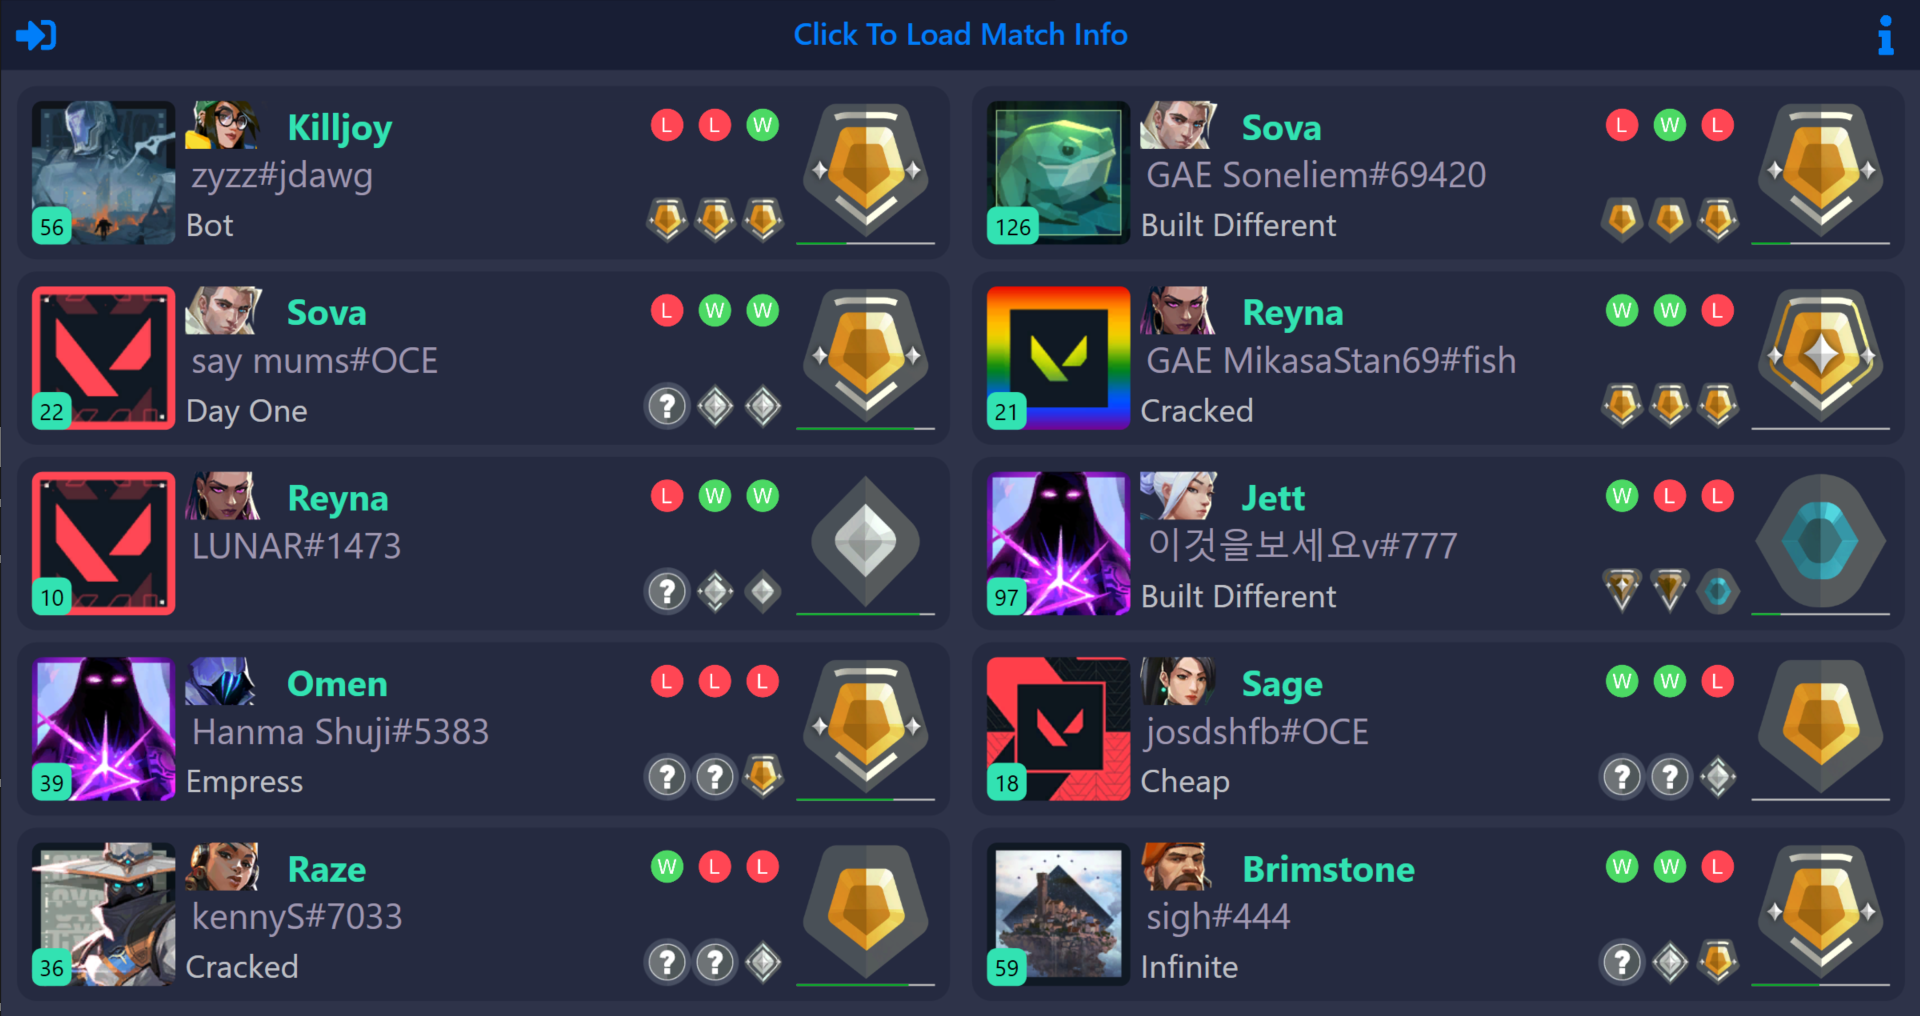
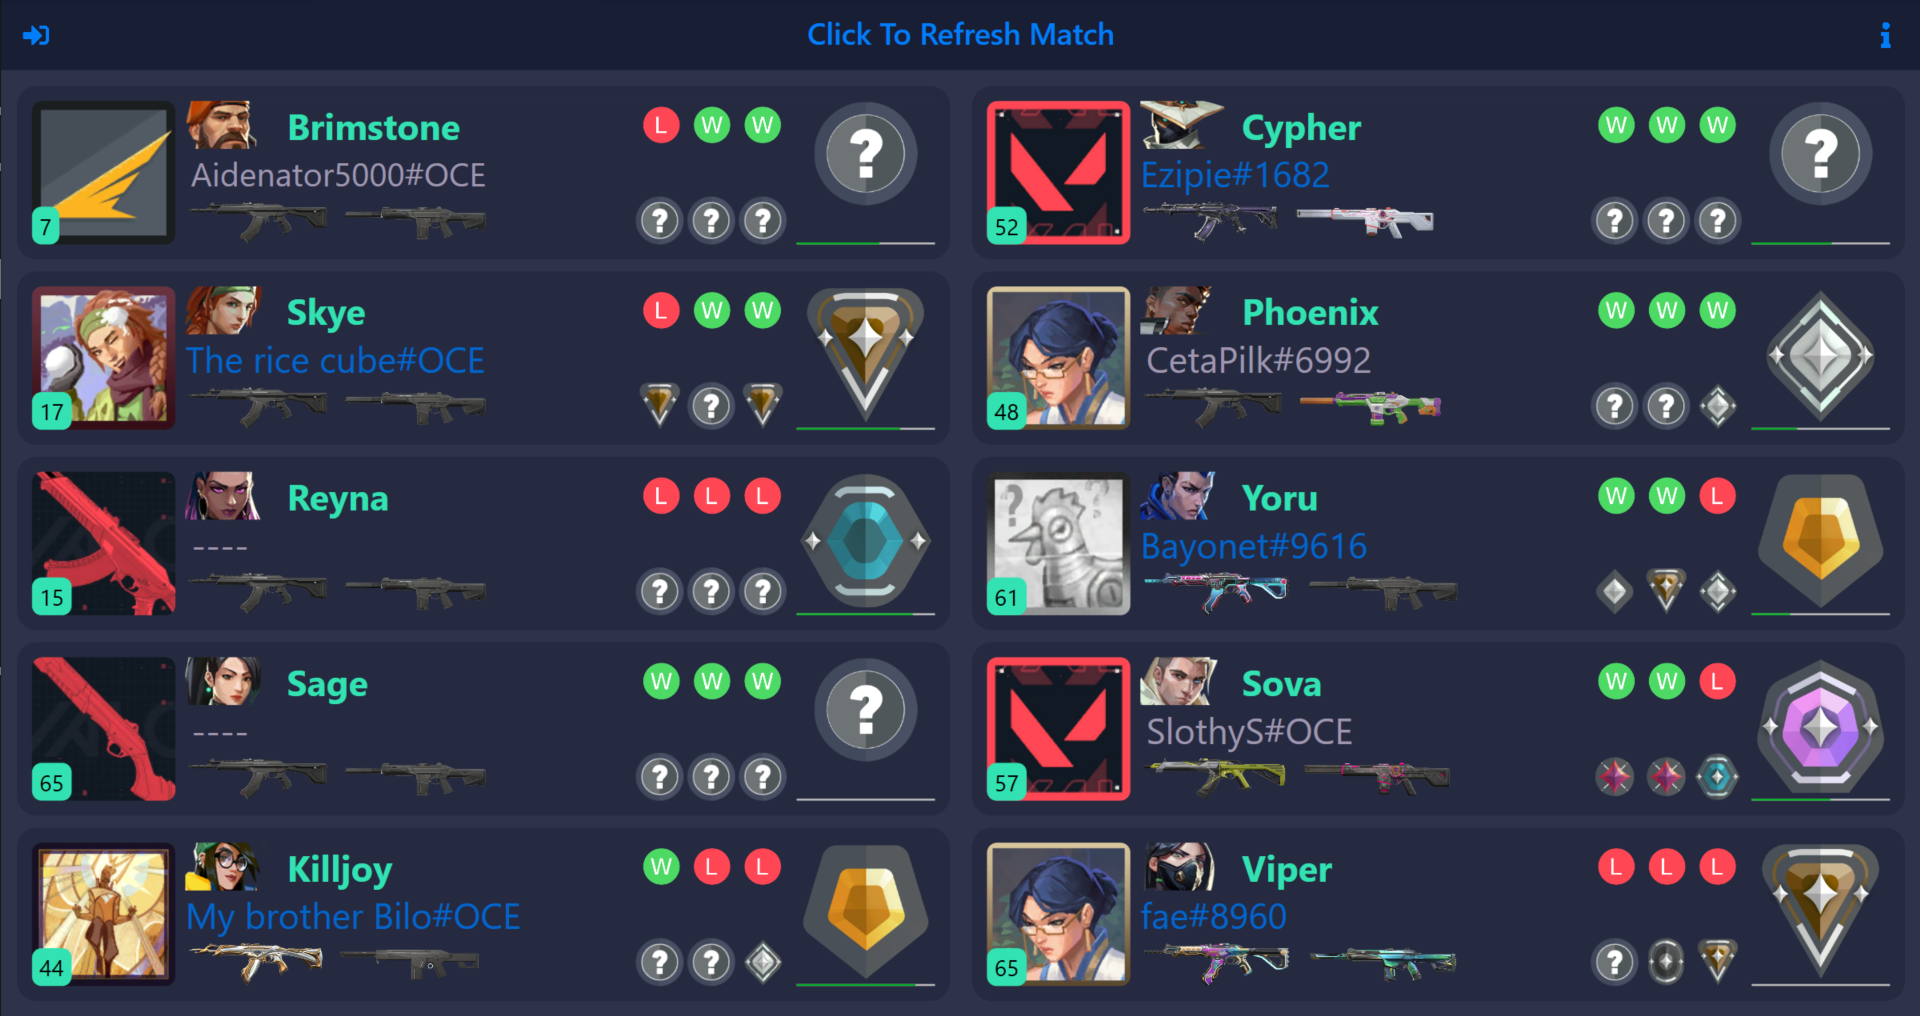
Updated ReadMe and Localizarion instructions

diff --git a/WAIUA/Properties/Resources.Designer.cs b/WAIUA/Properties/Resources.Designer.cs
@@ -313,7 +313,7 @@ namespace WAIUA.Properties {
         }
         
         /// <summary>
-        ///   Looks up a localized string similar to With love and hate.
+        ///   Looks up a localized string similar to Click To Refresh Match.
         /// </summary>
         public static string RefreshMatch {
             get {

diff --git a/README.md b/README.md
@@ -59,9 +59,9 @@ A simple(for you, not me) Windows GUI app that lets you see the ranks, recent ga
 
 ### Current Features
 Displays for each player:
-|Current Rank|Past three ranks (from last 3 acts, not last 3 played acts)|W/L indicator for last three competitive games|Player card and Account Level|In-game name, Agent and Title|
-|:---:|:---:|:---:|:---:|:---:|
-|![rank](Screenshots/rank.png)|![rank](Screenshots/pranks.png)|![rank](Screenshots/history.png)|![card](Screenshots/card.png)|![name](Screenshots/name.png)|
+|Current Rank|Past three ranks (from last 3 acts, not last 3 played acts)|W/L indicator for last three competitive games|Player card and Account Level|In-game name, Agent and Title|Vandal And Phantom Skin|
+|:---:|:---:|:---:|:---:|:---:|:---:|
+|![rank](Screenshots/rank.png)|![rank](Screenshots/pranks.png)|![rank](Screenshots/history.png)|![card](Screenshots/card.png)|![name](Screenshots/name.png)|![skin](Screenshots/skin.png)|
 
 
 ## Getting Started
@@ -85,19 +85,19 @@ Please ensure you are in a match when you try to use it. I swear if you complain
 
 If Valorant is already running:
 1. Ensure you are in a match (after selecting agents)
-2. Press the big "Click To Load Match Info" button and wait about 10 seconds
+2. Press the big "Click To Load Match Info" button and wait about 7 seconds
 3. Profit
 
 If Valorant is not running:
 1. Press the account button in the top left
 2. Use your Riot Account details to log in. Remember to select your region from the bottom left.
 3. Ensure you are in a match (after selecting agents). idk about you but wouldn't you need to have Valorant open for this?
-3. Press the big "Click To Load Match Info" button and wait about 10 seconds
+3. Press the big "Click To Load Match Info" button and wait about 7 seconds
 4. Profit slightly less
 
 ## Roadmap and Known Bugs
 
-Please check the [issues tab](https://github.com/Soneliem/WAIUA/issues) before making a new issue. My [Discord Server]() has a list of known bugs and upcoming features.
+Please check the [issues tab](https://github.com/Soneliem/WAIUA/issues) before making a new issue. My [Discord Server](https://discord.gg/X7CYCeZSRK) has a list of known bugs and upcoming features.
 
 ## Built With
 * [WPF](https://docs.microsoft.com/en-us/dotnet/desktop/wpf/?view=netdesktop-5.0)
@@ -122,6 +122,10 @@ Another reason to making this was that I wanted some experience with .NET and GU
 
 I welcome any sort of contribution and am happy to take in any ~~hate/~~ feedback. Open source means open heart :)
 
+## Translations
+
+WAIUA Supports full localization and instructions to help with translations can be found in [Localization](https://github.com/Soneliem/WAIUA/blob/master/Localization.md)
+
 ## License
 
 Distributed under the MIT License. See the [license](https://github.com/Soneliem/WAIUA/blob/master/LICENSE) for more information.
@@ -139,7 +143,7 @@ Discord Server:
 
 * [techchrism for work on documenting Valorant endpoints](https://github.com/techchrism/valorant-api-docs)
 * [RumbleMike for base C# authentication flow](https://github.com/RumbleMike/ValorantClientAPI)
-* [Valorant-API.com](https://valorant-api.com/)
+* [Valorant-API.com for all images, etc](https://valorant-api.com/)
 * [The guys on the Valorant App Developers Discord Server](https://discord.gg/a9yzrw3KAm)
 * This project uses Riot's unofficial-private-notforpublicuse API for most of the information. Riot pls no kil
 

diff --git a/Localization.md b/Localization.md
@@ -1,0 +1,35 @@
+# Localization
+WAIUA has full localization support and any number of languages can be added and changed natively. By default the app changes it's language based on the system language.
+
+## Adding Translations
+There are two different ways of adding translations to this project. The first method is probably the easiest with the second being slightly complicated for those that have never done it before.
+
+### Guidelines/Tips for both methods:
+- Only add translations for things that you are 100% sure on. Partially translating files is ok as long as you put in some effort
+- One of the keys named: "Translator" has an English translation of:
+`Translated into English By Soneliem`
+Change this to:
+`Translated into [language-you-are-translating-to] By [your-name/username]`
+If there is already a name there, simply add it to the end.
+- Please try to only add generic languages such as English(en) rather than English-United States(en-US)
+
+## Method 1: [POEditor](https://poeditor.com/join/project?hash=eDxQpoYC9q)
+POEditor lets people collaboratively edit translations, supports auto-translations, quality checks, etc. It's very easy to use and let's me monitor/help people.
+### Steps:
+- Access the website [here](https://poeditor.com/join/project?hash=eDxQpoYC9q)
+- Select the languages you want to help translate and press "Join Translation"
+ - If it re-directs you to the home page click on "WAIUA"
+ - You can add another language by requesting it (I will accept it as fast as I can)
+- The first column is the English reference with the second column being what you can edit
+ - You can change English to another language with the "Set Reference Language" button towards the top right
+- Changes are auto saved
+- After being proof-read, your changes will be pushed to the GitHub repo and included in the next release
+
+## Method 2: Directly Adding .resx files
+WPF apps like WAIUA use .resx (Microsoft .NET Managed Resource) files to handle localization. Method 1 simply creates one of these using a nice UI. These files can be opened/edited using Visual Studio/Code or a text editor if you really want.
+### Steps:
+- Git clone this repository
+- Duplicate [this](https://github.com/Soneliem/WAIUA/blob/master/WAIUA/Properties/Resources.en-001.resx) English template or any of the [resource files](https://github.com/Soneliem/WAIUA/tree/master/WAIUA/Properties) in a Language of your choice.
+- Change the ".en-001." to the corresponding Language tag in the table [here](https://docs.microsoft.com/en-us/openspecs/windows_protocols/ms-lcid/a9eac961-e77d-41a6-90a5-ce1a8b0cdb9c?redirectedfrom=MSDN).
+- Edit the file with your translations and ensure it is in the [correct folder](https://github.com/Soneliem/WAIUA/tree/master/WAIUA/Properties)
+- Create a pull request with the added file(s)
